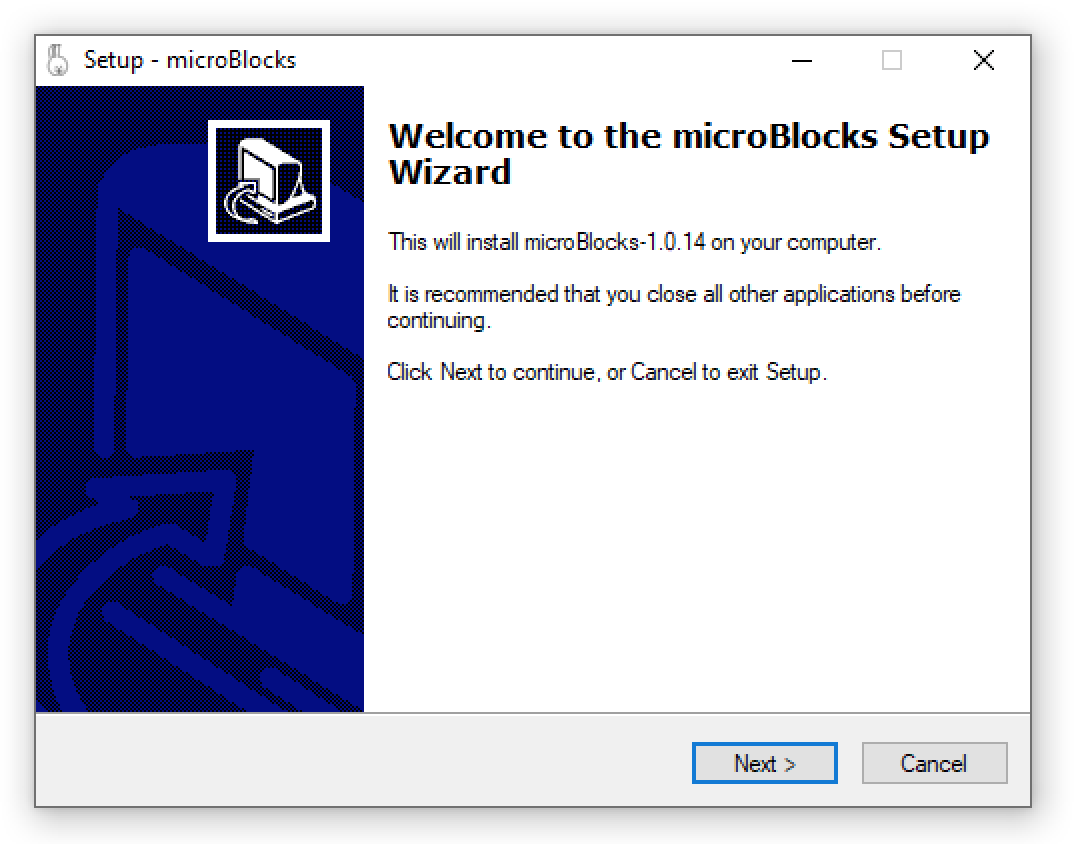
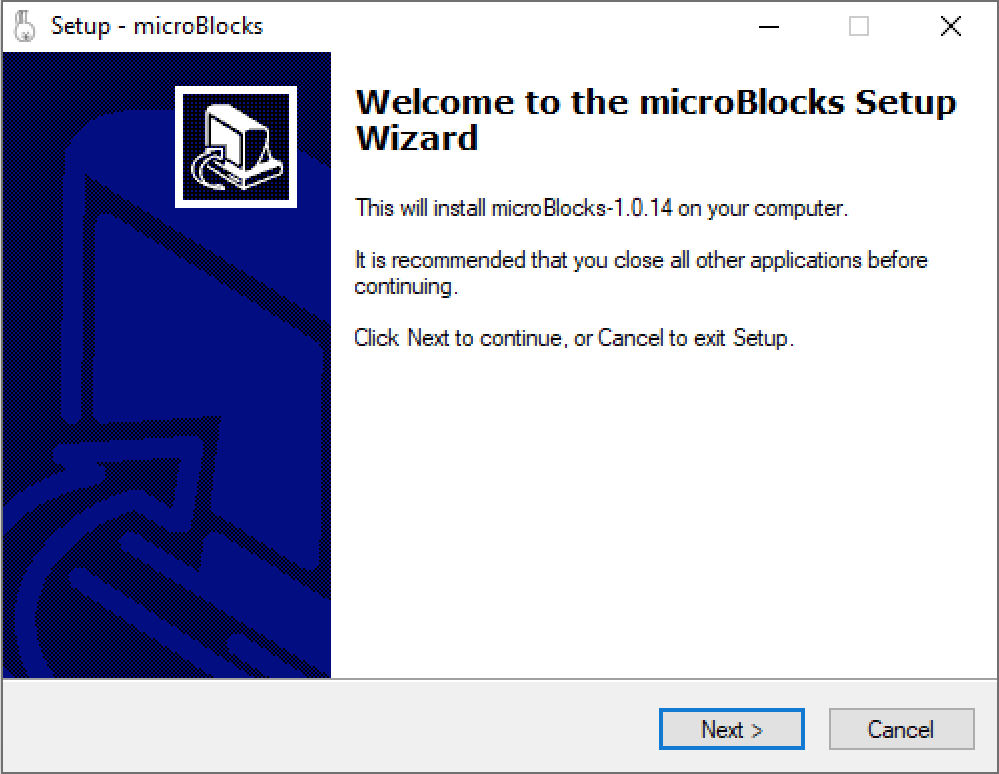
more Get Started work

Changed region(s): [[0.0, 0.0, 1.0, 1.0]]

diff --git a/data/markdown/setup-windows.md b/data/markdown/setup-windows.md
@@ -2,7 +2,7 @@
 
 Go to the [Download](download) page and click the **Download** button.
 
-In Chrome or Edge, you will be warned that the downloaded file could harm you computer.
+In Chrome or Edge, you will be warned that the downloaded file could harm your computer.
 
 <img src="assets/img/md/get-started/win-downloadblocked-1.png" width="400">
 
@@ -12,15 +12,15 @@ Click the three-dot menu and select **Keep**.
 
 You will then get another warning. Click **show more** and **Keep anyway**.
 
-<img src="assets/img/md/get-started/win-downloadblocked-3.png" width="350">
+<img src="assets/img/md/get-started/win-downloadblocked-3.png" width="360">
 
 Open the saved file, **microBlocks setup.exe**.
 
 After one more warning, that will open the installer.
 
-<img src="assets/img/md/get-started/win-setup-wizard.png" width="350">
+<img src="assets/img/md/get-started/win-setup-wizard.png" width="360">
 
 Click through the installer screens to install the app.
 
 The installer will launch MicroBlocks when it is done.
-It will also a shortcut icon to the Desktop that you can use to run MicroBlocks later.
+It will also add a shortcut icon to the Desktop that you can use to run MicroBlocks later.

diff --git a/data/markdown/setup-chromebook.md b/data/markdown/setup-chromebook.md
@@ -3,7 +3,10 @@
 Go to the [Download](download) page and click the **Download** button.
 That will bring you to MicroBlocks page on the Chrome Web Store.
 
-Click the **Add to Chrome** button on that page to install the MicroBlocks Chrome App.
+<img src="assets/img/md/get-started/chrome-web-store.png" width="400">
+
+Click the **Add to Chrome** button to install the MicroBlocks Chrome App.
+
 Open the Chromebook app launcher and click the MicroBlocks bunny icon.
 
 You can pin the MicroBlocks app to make it easy to open in the future.

diff --git a/data/markdown/setup-cpx.md b/data/markdown/setup-cpx.md
@@ -1,1 +1,11 @@
-Connect the board and do things.
+#### Circuit Playground Express or Circuit Playground Bluefruit
+
+Quickly click the small button in the center of the board (boot button) twice to put the board into "boot" mode.
+
+The LED's will momentarily turn red, then turn green and stay green.
+
+<picture>
+
+
+#### Adafruit Clue
+
